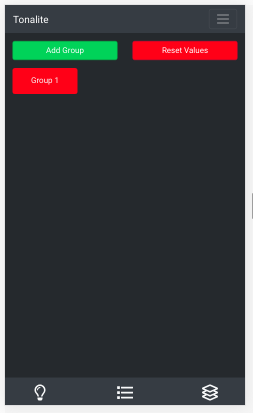
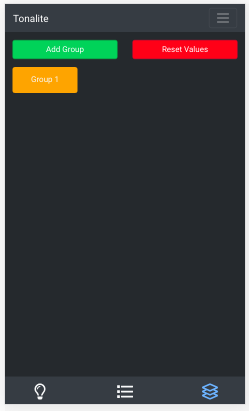
update group color

diff --git a/static/css/style.min.css b/static/css/style.min.css
@@ -1,1 +1,1 @@
-body{background-color:#212529;color:#F8F9FA}.dropdown-item:hover,.nav-item.dropdown{cursor:pointer}.dropdown-item:hover{background-color:rgba(0,0,0,.1)}.cueItem,.fixtureItem,.groupItem{width:100%;background-color:#228BE6;color:#F8F9FA;border-radius:5px;padding-top:.75rem;padding-bottom:.01rem;margin-bottom:1rem;text-align:center}.fixtureItem:hover{background-color:#1971c2}.cueItem{background-color:#40C057}.groupItem{background-color:#f03e3e}#cuesList,#fixturesList,#groupsList{margin-bottom:3rem}.tab{position:fixed;bottom:0;right:0;width:100%;background:#343A40;text-align:center;font-size:2rem;padding-top:.45rem}.tabcontent{margin-bottom:3.5rem}.tablinks.active{color:#74c0fc}#fixtureChannelsPage{margin-bottom:4.5rem}.topBtns{margin-bottom:1rem;margin-top:1rem}.dark,.list-group-item{color:#343A40}.btn-success{background-color:#40c057}.btn-success:hover{background-color:#2f9e44}.btn-primary{background-color:#228be6}.btn-primary:hover{background-color:#1971c2}.btn-danger{background-color:#f03e3e}.btn-danger:hover{background-color:#c92a2a}.bg-light{background-color:#343A40!important}.custom-range{margin-bottom:1.5rem;margin-top:1rem}
+body{background-color:#212529;color:#F8F9FA}.dropdown-item:hover,.nav-item.dropdown{cursor:pointer}.dropdown-item:hover{background-color:rgba(0,0,0,.1)}.cueItem,.fixtureItem,.groupItem{width:100%;background-color:#228BE6;color:#F8F9FA;border-radius:5px;padding-top:.75rem;padding-bottom:.01rem;margin-bottom:1rem;text-align:center}.fixtureItem:hover{background-color:#1971c2}.cueItem{background-color:#40C057}.groupItem{background-color:#f59f00}#cuesList,#fixturesList,#groupsList{margin-bottom:3rem}.tab{position:fixed;bottom:0;right:0;width:100%;background:#343A40;text-align:center;font-size:2rem;padding-top:.45rem}.tabcontent{margin-bottom:3.5rem}.tablinks.active{color:#74c0fc}#fixtureChannelsPage{margin-bottom:4.5rem}.topBtns{margin-bottom:1rem;margin-top:1rem}.dark,.list-group-item{color:#343A40}.btn-success{background-color:#40c057}.btn-success:hover{background-color:#2f9e44}.btn-primary{background-color:#228be6}.btn-primary:hover{background-color:#1971c2}.btn-danger{background-color:#f03e3e}.btn-danger:hover{background-color:#c92a2a}.bg-light{background-color:#343A40!important}.custom-range{margin-bottom:1.5rem;margin-top:1rem}

diff --git a/static/css/style.css b/static/css/style.css
@@ -33,7 +33,7 @@ body {
 }
 
 .groupItem {
-    background-color: #f03e3e;
+    background-color: #f59f00;
 }
 
 #fixturesList,
